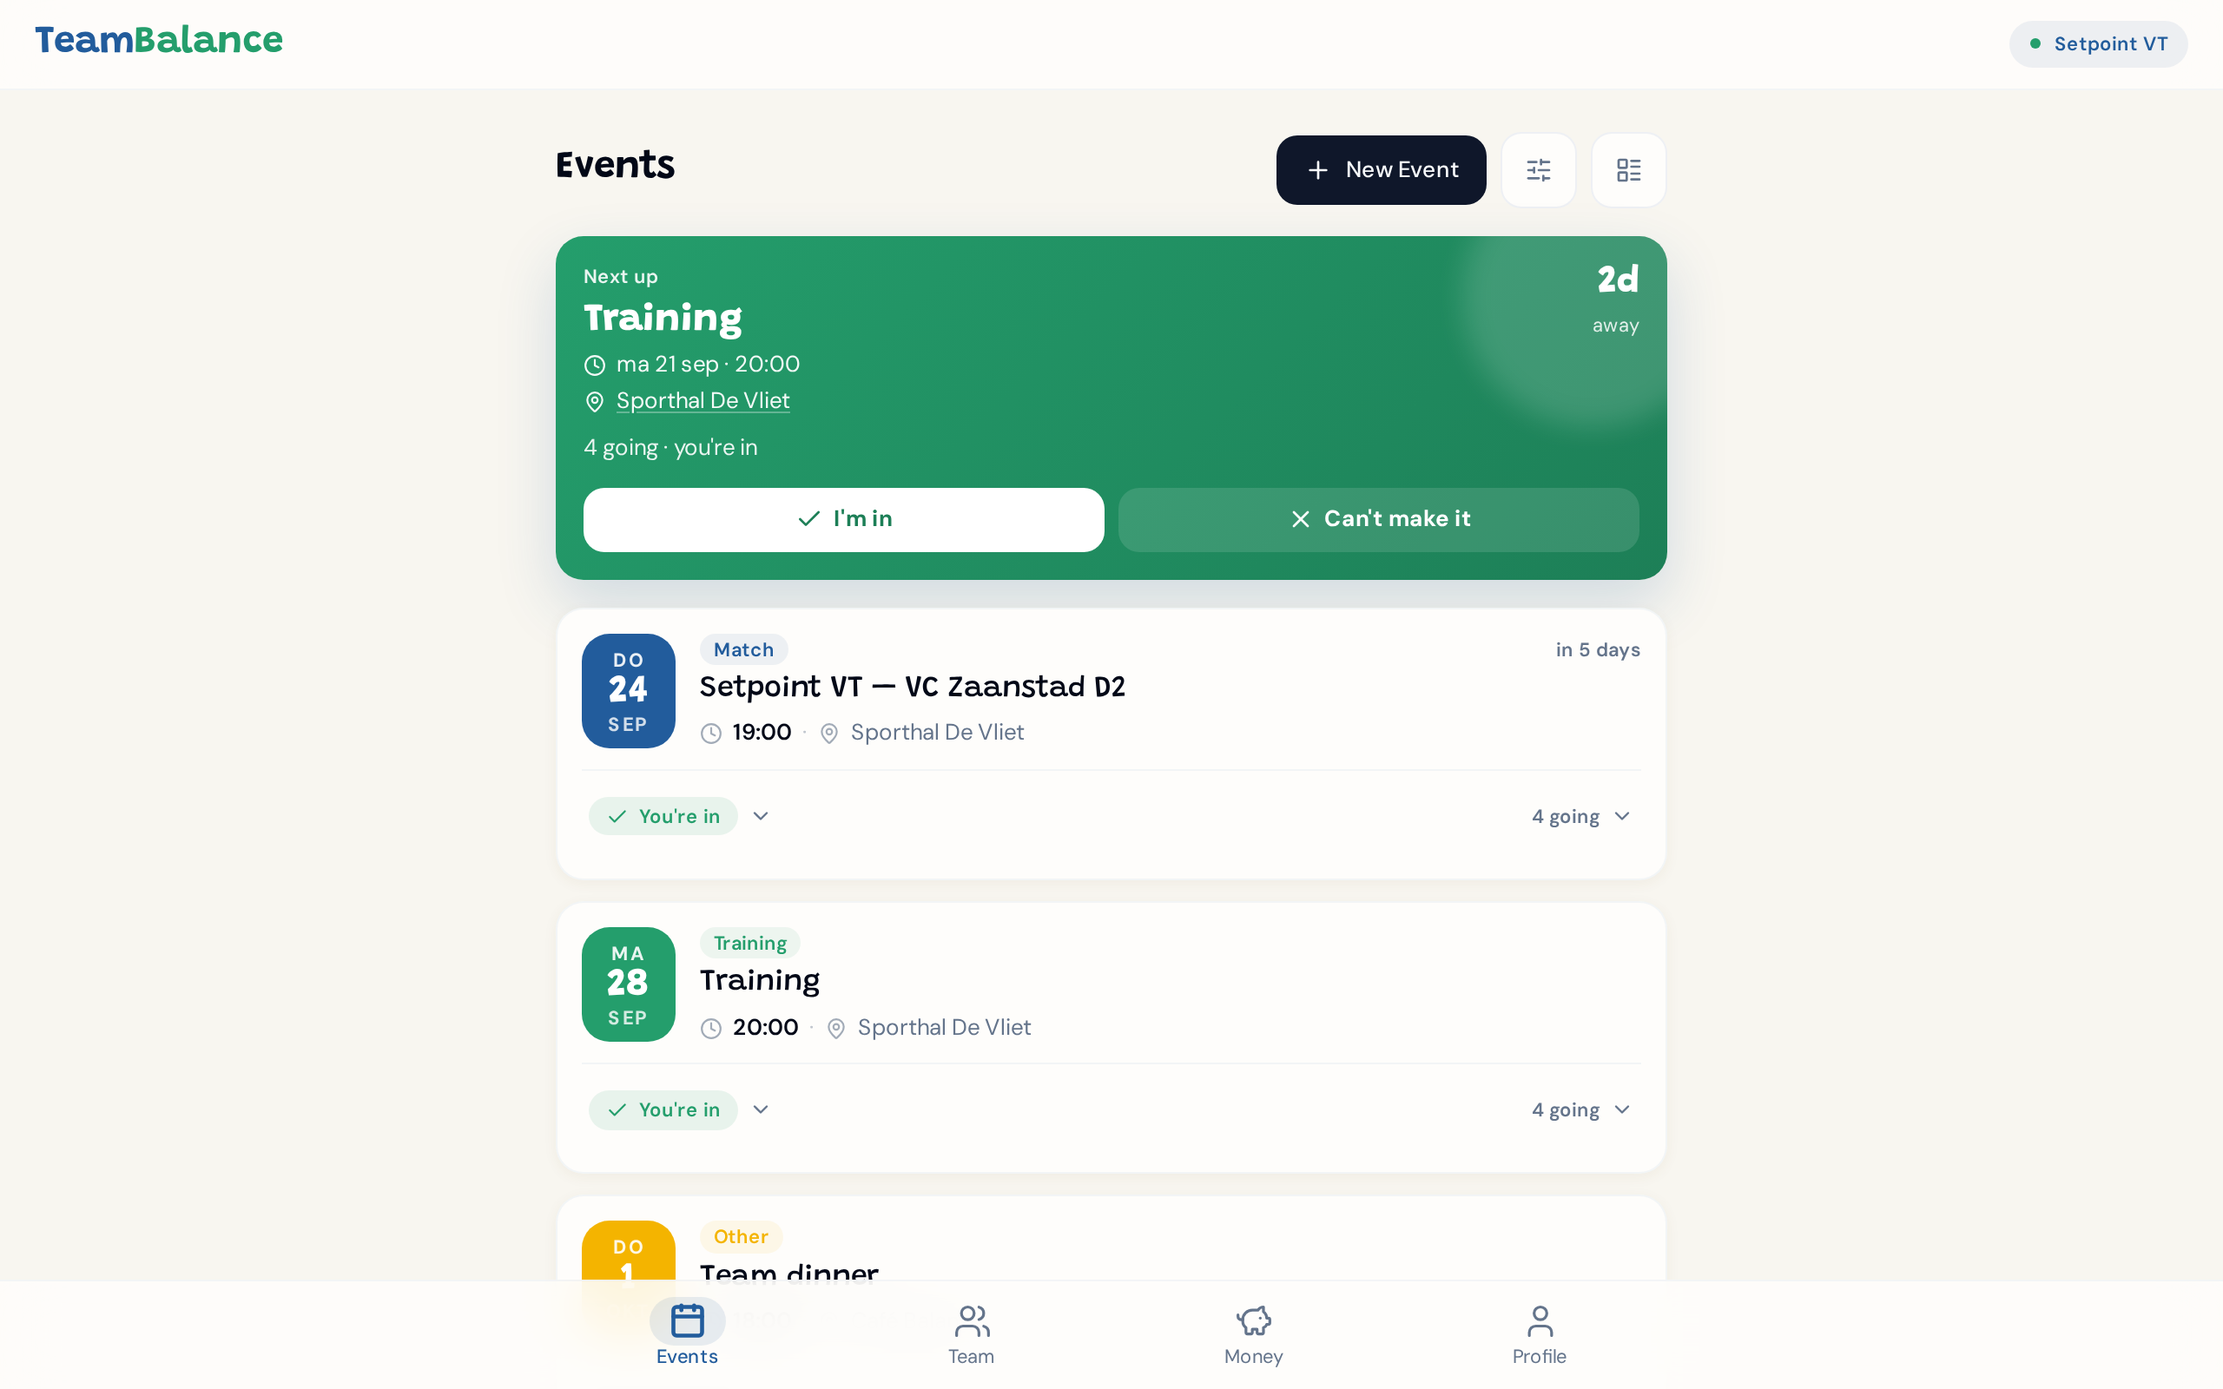
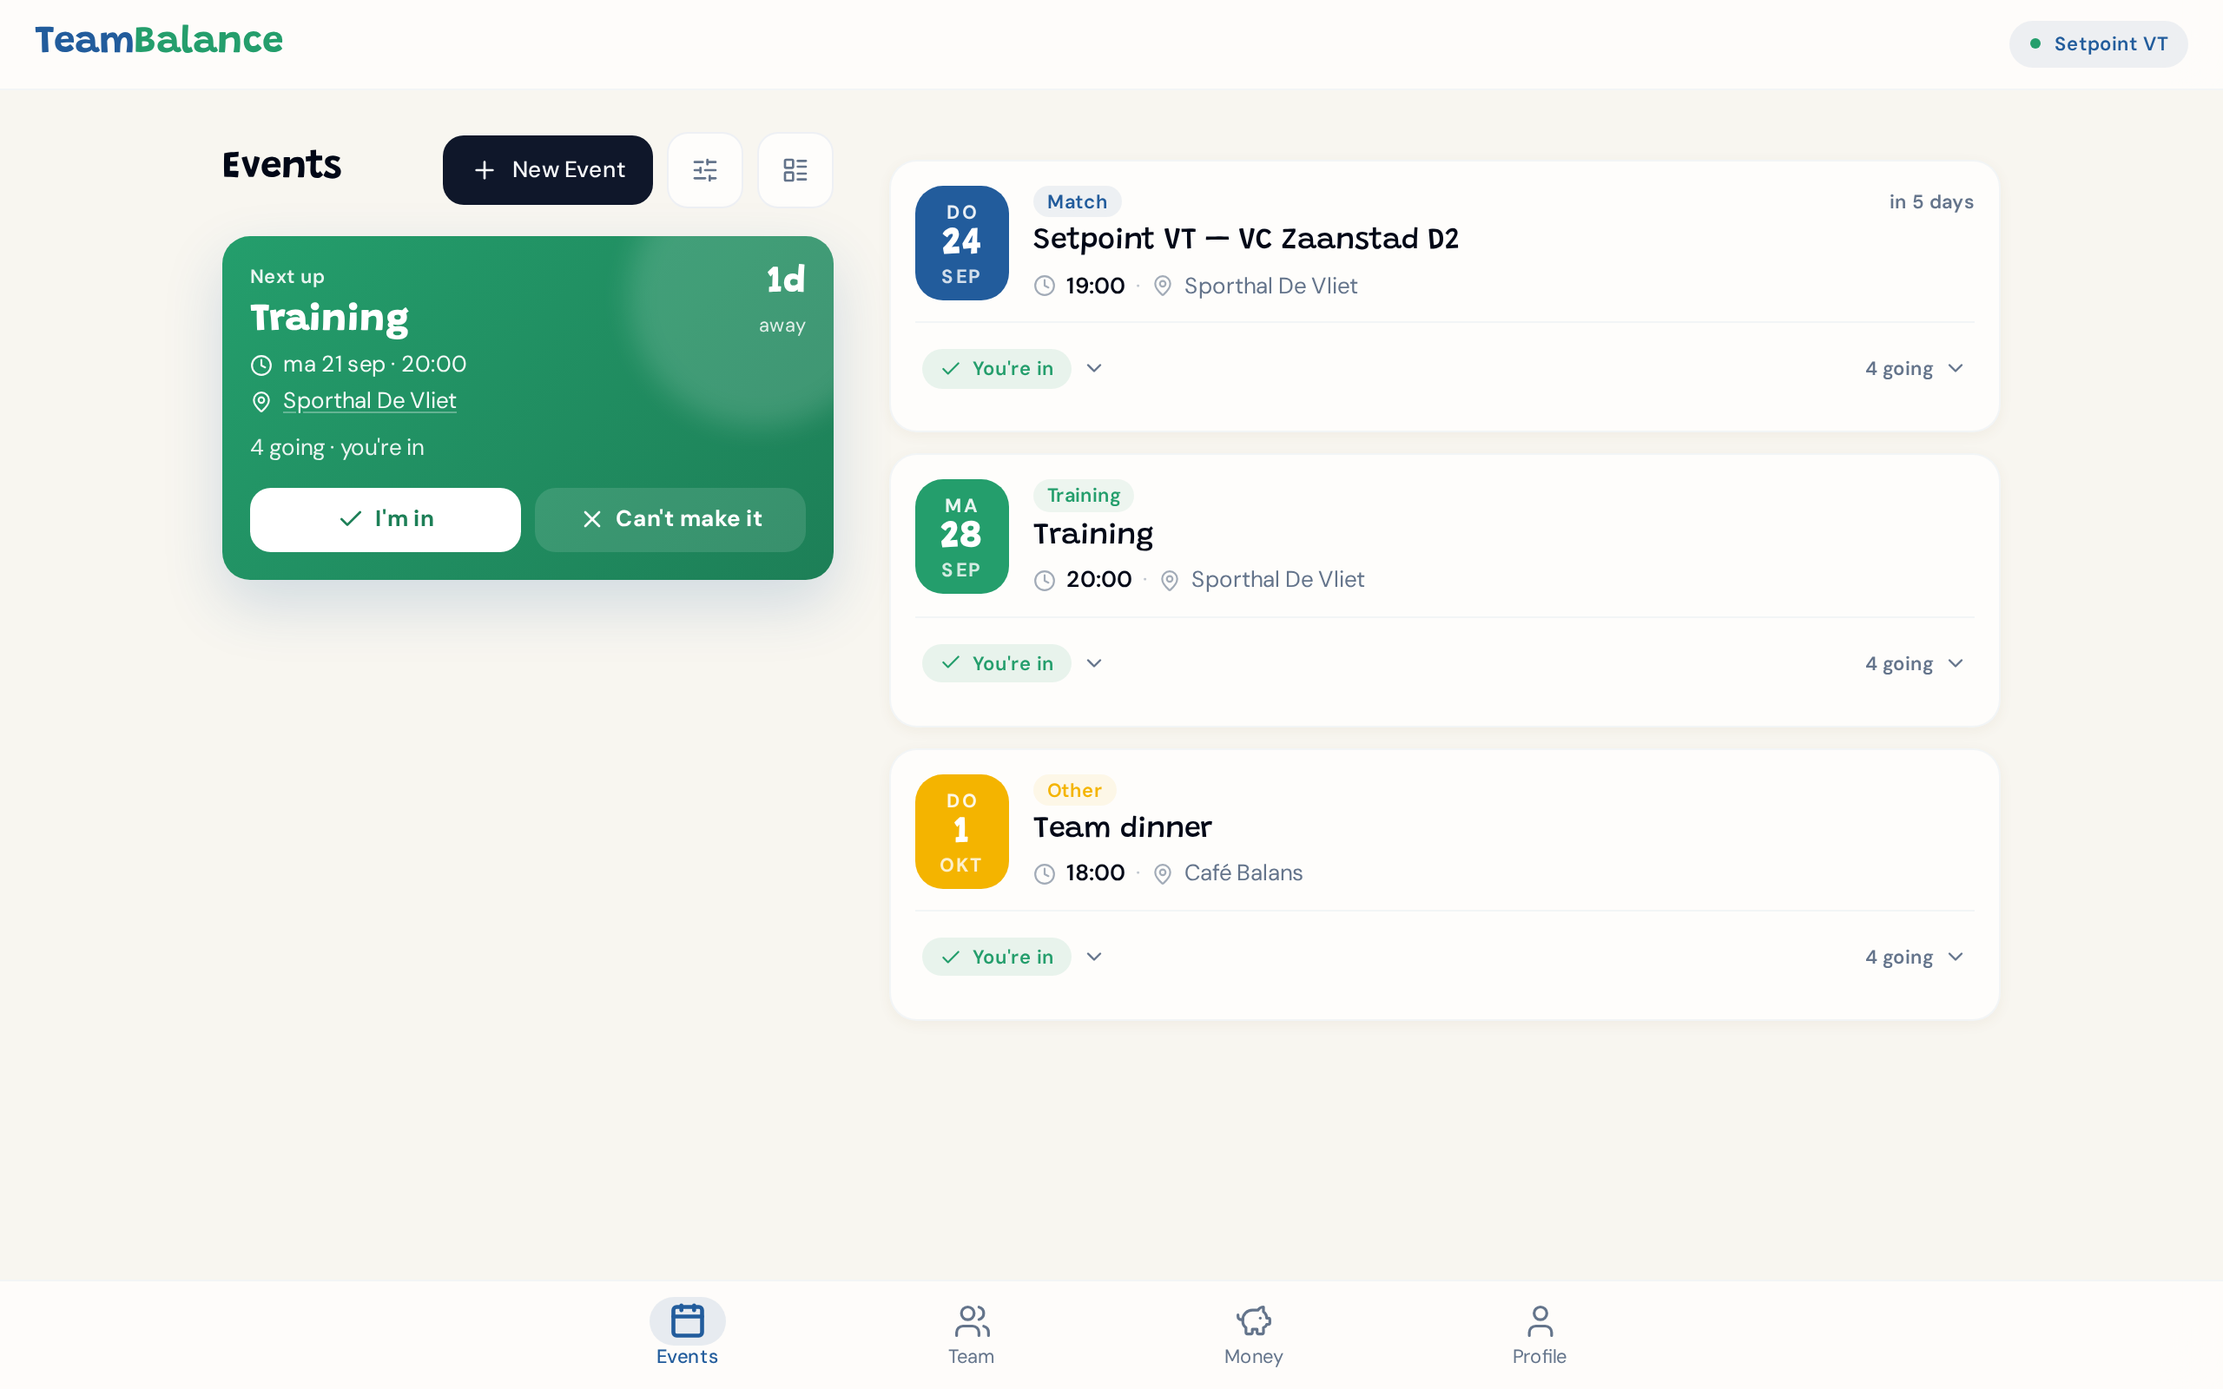
feat(app): the events page uses the width on lg+ — a left rail, not wider cards (#352)
Every in-shell page renders in one centred max-w-2xl column, so on a laptop
the events page was a phone column with ~300px of empty margin either side.
Widening the cards was the wrong answer: the answer row's two pills already
sit ~400px apart at 610px, and a 17px title on a 1200px card is the
stretched-phone-app look.

From lg up the page splits in two. The header with its two popovers, the
Next Up hero and the bulk-attend bar move into a sticky 22rem left rail;
the chronological list takes the right at 40rem — the width a card already
has on a laptop, so no card gains a pixel at any width.

Below lg nothing moves. The rail wrappers are `display: contents` there, so
the single column is the same box tree, in the same order, with the same
margins it had before.

AppShellFrame keeps max-w-2xl as the rule; a page lifts the cap for itself
by spreading WIDE_COLUMN on its root, which the frame reads with :has().
A prop would have to be threaded back out through the router, since the
frame is rendered once around an <Outlet/> and never learns which page is
inside it. Only the events page opts in — detail, team and account read
fine as one column.

The header row deliberately does not stick: a sticky box forms a stacking
context, and neither popover is portalled, so their overlay and panel would
paint under the cards beside them.

Verified against the running stack at 360 / 1024 / 1280: the phone picture
is box-for-box identical, the card is 608px at lg and 640px at xl, the
[…]

diff --git a/app/src/pages/events/ui/EventsPageView.tsx b/app/src/pages/events/ui/EventsPageView.tsx
@@ -2,6 +2,7 @@ import type { ComponentProps, ReactNode } from 'react'
 import { EventListView } from '@entities/event/ui/EventListView'
 import { EventFiltersView } from '@features/filter-event-types/ui/EventFiltersView'
 import { PanelViewMenu } from '@features/event-panel-view/ui/PanelViewMenu'
+import { WIDE_COLUMN } from '@shared/ui/AppShellFrame'
 
 interface EventsPageViewProps {
   /** The admin's "New Event" trigger; absent for members. */
@@ -21,32 +22,50 @@ interface EventsPageViewProps {
  * Prop-only — the route decides what goes in each slot (the live hero, bar and create sheet are
  * containers with their own queries), and the story fills the same slots with their prop-only Views,
  * so the whole page renders with zero network.
+ *
+ * From `lg` up it splits in two (ADR-0033): everything a member scans *before* acting — the header
+ * with its two popovers, the hero, the bulk-attend bar — moves into a left rail, and the
+ * chronological list takes the right. The cards do not widen; the list column is 40rem, the width a
+ * card already has on a laptop, so the extra room pays for the rail and nothing else. This is the
+ * one page that opts out of the shell's centred column, hence WIDE_COLUMN on the root.
  */
 export function EventsPageView({ createAction, filters, panelMenu, hero, bulkBar, list }: EventsPageViewProps) {
   return (
-    <div>
-      <div className="flex items-center justify-between gap-2">
-        <h2 className="font-display text-title font-bold">Events</h2>
-        <div className="flex items-center gap-2">
-          {/* The invite link moved to the Team page (team-management action); Events keeps
-              only event creation for admins. */}
-          {createAction}
-          {/* Always mounted: the popover now owns the only route to past events, so it
-              must not disappear with the event types it also happens to host. */}
-          <EventFiltersView {...filters} />
-          {/* How the list is drawn, beside what it contains but deliberately not inside it
-              (ADR-0030 §3): a filter is "where was I", this is "how do I like this". */}
-          <PanelViewMenu {...panelMenu} />
+    <div {...WIDE_COLUMN} className="lg:grid lg:grid-cols-[22rem_minmax(0,1fr)] lg:gap-8">
+      {/* The rail. `contents` below `lg`: it is not a box at all on a phone, so the single column
+          stays the box tree it was before the rail existed — margins and all — and becomes a grid
+          item only where the grid does. The list needs no such wrapper: EventListView's own root
+          is the second column, in every one of its states. */}
+      <div className="contents lg:block">
+        <div className="flex items-center justify-between gap-2">
+          <h2 className="font-display text-title font-bold">Events</h2>
+          <div className="flex items-center gap-2">
+            {/* The invite link moved to the Team page (team-management action); Events keeps
+                only event creation for admins. */}
+            {createAction}
+            {/* Always mounted: the popover now owns the only route to past events, so it
+                must not disappear with the event types it also happens to host. */}
+            <EventFiltersView {...filters} />
+            {/* How the list is drawn, beside what it contains but deliberately not inside it
+                (ADR-0030 §3): a filter is "where was I", this is "how do I like this". */}
+            <PanelViewMenu {...panelMenu} />
+          </div>
+        </div>
+
+        {/* Only the hero and the bar stick, never the header row above them: a sticky box forms a
+            stacking context, and both popovers up there position themselves inside it — their
+            overlay and panel would then paint under the cards beside them. The rail column itself
+            stretches to the row's height, which is the travel this sticky has. */}
+        <div className="contents lg:block lg:sticky lg:top-[calc(var(--header-height)+1.5rem)]">
+          {/* No hero when nothing is within RELATIVE_WINDOW_DAYS — and no placeholder in its
+              place. The list carries the page. */}
+          {hero}
+
+          {/* One button per event type with blanks left (ADR-0021); renders nothing at all when
+              there are none, so a fully-answered page reserves no empty row. */}
+          {bulkBar}
         </div>
       </div>
-
-      {/* No hero when nothing is within RELATIVE_WINDOW_DAYS — and no placeholder in its
-          place. The list carries the page. */}
-      {hero}
-
-      {/* One button per event type with blanks left (ADR-0021); renders nothing at all when
-          there are none, so a fully-answered page reserves no empty row. */}
-      {bulkBar}
 
       <EventListView {...list} />
     </div>

diff --git a/app/src/shared/ui/AppShellFrame.tsx b/app/src/shared/ui/AppShellFrame.tsx
@@ -8,6 +8,17 @@ import { Link } from '@tanstack/react-router'
  */
 export const APP_COLUMN = 'mx-auto max-w-2xl px-4'
 
+/**
+ * Spread onto a page's root element to opt that page out of the centred phone column from `lg` up
+ * (ADR-0033): `<div {...WIDE_COLUMN}>`. The frame reads it with `:has()` rather than taking a prop,
+ * because the frame is rendered once by the root route around an `<Outlet/>` and never learns which
+ * page is inside it — a prop would have to be threaded back out through the router.
+ *
+ * It only lifts the cap. What a page does with the extra room is the page's own business, and a
+ * page that keeps a single column is still capped at `max-w-2xl` by its own content.
+ */
+export const WIDE_COLUMN = { 'data-wide-column': '' } as const
+
 interface AppShellFrameProps {
   /** Top-right identity slot — the live TeamSwitcher in the app, a prop-only view in a story. */
   teamSwitcher: ReactNode
@@ -49,7 +60,12 @@ export function AppShellFrame({ teamSwitcher, banner, nav, children }: AppShellF
       {banner}
       {/* Bottom padding clears the fixed nav (~6rem) plus the home-indicator inset, so the last
           row of content is never hidden behind the bar on notched devices. */}
-      <main className={`${APP_COLUMN} py-6 pb-[calc(6rem+env(safe-area-inset-bottom))]`}>
+      {/* `lg:has-[[data-wide-column]]` is the one per-page override (ADR-0033): a page that spreads
+          WIDE_COLUMN on its root widens this cap from 42rem to 66rem at `lg`, which is 64rem of
+          content beside the 1rem edge padding. Below `lg` every page is the same centred column. */}
+      <main
+        className={`${APP_COLUMN} py-6 pb-[calc(6rem+env(safe-area-inset-bottom))] lg:has-[[data-wide-column]]:max-w-[66rem]`}
+      >
         {children}
       </main>
       {nav}

diff --git a/app/src/pages/events/ui/EventsPageView.stories.tsx b/app/src/pages/events/ui/EventsPageView.stories.tsx
@@ -30,6 +30,10 @@ import { EventsPageView } from './EventsPageView'
 // The Data and Interactions stories render through a small state harness (§6) so a person can
 // actually use the page in Storybook — filters narrow the list, the hero re-picks itself, an RSVP
 // flips the card — while the `play` still proves the callbacks fired.
+//
+// `Data`'s `xl` mode is the acceptance picture for the left rail (ADR-0033): at 1280 the header,
+// hero and bulk bar sit in the 22rem rail and the cards keep the 40rem they already had. The
+// phone modes are the proof that nothing moved below `lg`.
 const NOW = new Date(2026, 7, 10, 9, 0) // Monday 10 August 2026, 09:00 local
 const at = (day: number, month = 7, hour = 20) => new Date(2026, month, day, hour, 0).toISOString()
 
@@ -288,7 +292,11 @@ export const Data: Story = {
   // The page's picture, in dark and once at desktop width too (ADR-0032 §4-§5).
   parameters: { chromatic: { modes: pageModes } },
   play: async ({ canvas }) => {
-    await expect(canvas.getByRole('heading', { name: 'Events' })).toBeInTheDocument()
+    const heading = canvas.getByRole('heading', { name: 'Events' })
+    await expect(heading).toBeInTheDocument()
+    // The contract the rail rests on (ADR-0033): without this marker on the page root the shell
+    // keeps its 42rem cap, and the rail and the list would be sharing 40rem instead of 64.
+    await expect(heading.closest('[data-wide-column]')).not.toBeNull()
     await expect(canvas.getByRole('button', { name: 'New Event' })).toBeInTheDocument()
     await expect(canvas.getByRole('button', { name: 'Filters' })).toHaveAttribute('aria-expanded', 'false')
     // The hero holds the one event within the window, and the list does not repeat it.

diff --git a/docs/adr/0033-events-page-left-rail-from-lg.md b/docs/adr/0033-events-page-left-rail-from-lg.md
@@ -1,0 +1,89 @@
+# ADR-0033: The events page uses the width from `lg` — a left rail, not wider cards
+
+- Status: Accepted
+- Date: 2026-09-19
+- Extends: [ADR-0032](0032-composite-snapshots-three-stories-per-view-and-a-viewport-axis.md)
+  §3 (page composites own the pixels) and §4 (the viewport axis that made the desktop picture
+  visible in the first place). Amends nothing in
+  [ADR-0029](0029-event-list-filters-partition-and-everything-follows-them.md) or
+  [ADR-0030](0030-list-page-clarity-persisted-view-preferences-and-an-over-fetched-list.md):
+  what the page shows, and in what order, is unchanged.
+
+## Context
+
+Every in-shell page renders in one centred `max-w-2xl` column (`AppShellFrame`, 672px). That is the
+right reading width for a card list, and it is why a component like `EventAnswerRow` plateaus at
+~610px however wide the screen gets: the cap belongs to the layout, not to the component, which is
+`w-full` and has no width of its own.
+
+On a laptop the events page is therefore a phone column with ~300px of empty margin on either side.
+ADR-0032 §4 added the viewport axis and captures the page composites at `xl` (1280px), so the
+desktop picture is now guarded — but the picture it guards is "the phone, centred".
+
+Widening the cards is the obvious move and the wrong one. The answer row's two pills (your answer
+left, the roster verdict right) belong together by proximity and are already ~400px apart at 610px;
+at 1200px the verdict reads as page furniture rather than as this event's verdict, and a 17px card
+title on a 1200px card is the stretched-phone-app look.
+
+## Decision
+
+### 1. From `lg` (1024px) the events page is a left rail plus the list
+
+Everything a member scans *before* acting moves into a sticky left rail — the page header with its
+two popovers (`Filters`, `View options`) and the admin's create trigger, the Next Up hero, and the
+bulk-attend bar. The chronological card list takes the right column.
+
+Tracks are `22rem` (rail) and `minmax(0,1fr)` (list) with a `2rem` gap, inside a `66rem` cap. That
+is 64rem of content beside the shell's 1rem edge padding, which leaves the list column **40rem —
+the width a card already has on a laptop today**. The extra room pays for the rail and for nothing
+else: no card gets a pixel wider at any width.
+
+Below `lg` nothing changes. The two rail wrappers are `display: contents` there, so the single
+column is the same box tree, in the same order, with the same margins, that it was before the rail
+existed. The phone is the product; this is a laptop affordance bolted beside it.
+
+### 2. Only the events page opts out, and it opts itself out
+
+`AppShellFrame` keeps `max-w-2xl` as the rule. A page lifts the cap for itself by spreading
+`WIDE_COLUMN` on its root, and the frame reads that marker with `lg:has-[[data-wide-column]]`.
+
+It is an attribute rather than a prop because the frame is rendered **once**, by the root route,
+around an `<Outlet/>`: it never learns which page is inside it, so a prop would have to be threaded
+back out through the router and every page composite would have to declare a width it does not own.
+`:has()` lets the page state the one thing it actually knows. The marker only lifts the cap — a page
+that keeps a single column is still capped by its own content.
+
+The detail, team and account pages read fine as a single column and stay as they are.
+
+### 3. The header row does not stick; the hero and the bar do
+
+A `position: sticky` box forms a stacking context. `EventFiltersView` and `PanelViewMenu` position
+their overlay and panel inside their own subtree (they are not portalled), and `EventCard` is
+`relative` for its stretched link — so a header row inside a sticky rail would paint both popovers
+*under* the cards beside them. The sticky wrapper therefore starts below the header row. The rail
+column stretches to the grid row's height, which is the travel the sticky has.
+
+### 4. `xl` is the acceptance picture, and there is no new mode
+
+`EventsPageView`'s `Data` story already carries `xs`, `xsDark` and `xl` under `withAppShell`
+(ADR-0032 §5), and `xl` is where the rail is. No `lg` baseline is added: the tracks are
+`22rem` fixed plus a shrinkable `minmax(0,1fr)`, so 1024px is the same layout with a 38rem list
+rather than a different one, and ADR-0032's baseline budget is not spent on a width that cannot
+reflow. The page/shell contract itself — the `data-wide-column` marker — is asserted in that story's
+`play`, because losing it is invisible at phone width and would silently squeeze both columns into
+40rem.
+
+## Consequences
+
+- **`events-wide.png` is re-captured.** The PWA install-dialog screenshot is taken at 1280×800
+  (`scripts/capture-pwa-screenshots.mjs`), which is exactly where the rail appears, so the wide
+  preview had to be regenerated and committed. The 390px `events-narrow.png` came back out of the
+  same run box-for-box identical — only the hero's countdown digit had moved on, the seed being
+  relative to the day it runs — so the committed one is kept. That identity is the check that §1's
+  `display: contents` claim holds.
+- **One `xl` baseline changes**, plus the cards' position within it. Their pixels do not change.
+- **A second page wanting the width is now cheap** — spread `WIDE_COLUMN`, lay the page out — and
+  deliberately not free: each page states its own intent, so widening one never widens another.
+- **`:has()` is now load-bearing** for a layout rule. It is baseline in every browser the app
+  supports; the fallback if it were ever unsupported is the centred column the page has today, which
+  is a degradation and not a break.
